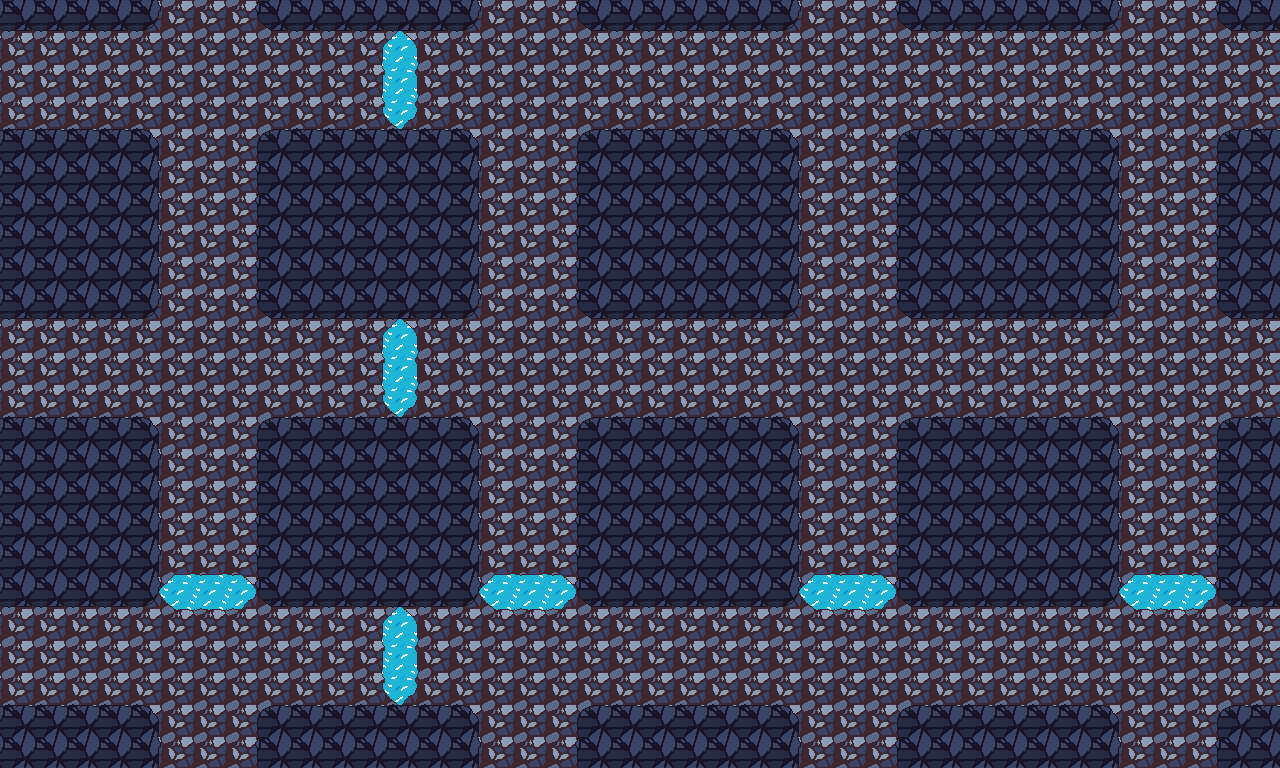
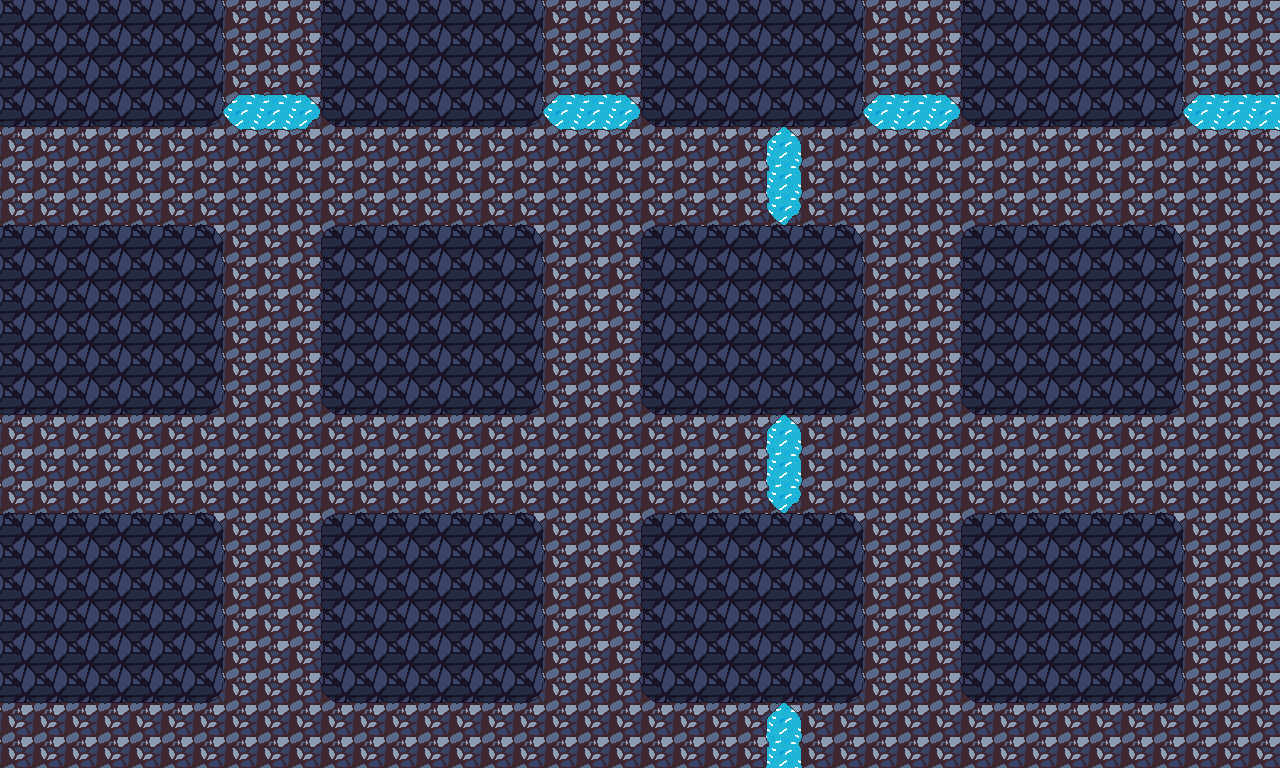
Tavolo tattico v2 (parte 1): rumore esportato, quartieri a centri, tratti e schede applicati dal generatore
Claude-Session: https://claude.ai/code/session_014ycMSkFAn8ixUvbSfrqtAR

diff --git a/tools/art/build_world.py b/tools/art/build_world.py
@@ -188,14 +188,74 @@ def galleria(mask, a, b, larg, rnd):
         mask[max(0, y - larg // 2):y + larg - larg // 2, max(0, x - larg // 2):x + larg - larg // 2] = True
 
 
+def q8(a):
+    """Rumore arrotondato a 256 livelli: e' lo stesso che il tavolo tattico legge dai PNG."""
+    return np.round(np.clip(a, 0, 1) * 255) / 255
+
+
+def rumori(seed):
+    return {"e": q8(0.65 * fbm(W, H, 28 * K, 5, seed) + 0.35 * fbm(W, H, 9 * K, 3, seed + 1)),
+            "m": q8(fbm(W, H, 24 * K, 4, seed + 2)), "d": q8(fbm(W, H, 6 * 1.5, 2, seed + 9)),
+            "n1": q8(fbm(W, H, 30 * K, 3, seed + 3)), "n2": q8(fbm(W, H, 12 * K, 2, seed + 4)),
+            "rq": q8(fbm(W, H, 18, 2, seed + 50))}
+
+
+def timbra(punti, r):
+    """Maschera dei tile toccati da un tratto: dischi di raggio r lungo la linea dei punti."""
+    mask = np.zeros((H, W), bool)
+    r = max(0, int(round(r)))
+    oy, ox = np.mgrid[-r:r + 1, -r:r + 1]
+    disco_l = ox * ox + oy * oy <= r * r + r
+    pts = [(float(p[0]), float(p[1])) for p in punti]
+    if len(pts) == 1:
+        pts = pts * 2
+    for (x0, y0), (x1, y1) in zip(pts, pts[1:]):
+        n = max(1, int(math.hypot(x1 - x0, y1 - y0) * 2))
+        for t in range(n + 1):
+            x, y = int(round(x0 + (x1 - x0) * t / n)), int(round(y0 + (y1 - y0) * t / n))
+            ya, yb, xa, xb = y - r, y + r + 1, x - r, x + r + 1
+            sy0, sx0 = max(0, -ya), max(0, -xa)
+            sy1, sx1 = disco_l.shape[0] - max(0, yb - H), disco_l.shape[1] - max(0, xb - W)
+            if sy1 <= sy0 or sx1 <= sx0:
+                continue
+            mask[max(0, ya):min(H, yb), max(0, xa):min(W, xb)] |= disco_l[sy0:sy1, sx0:sx1]
+    return mask
+
+
+ACQUE = ("water", "deep_water")
+TERRENO_TRATTO = {"strada": "lastricato_antico", "fiume": "water"}
+
+
+def applica_ritocchi(g, land, acqua, luoghi, villaggi):
+    """Schede (spiazzo attorno a un luogo) e tratti di superficie (pennello, strade, fiumi) dal tavolo tattico."""
+    for cat, dove in (("luoghi", luoghi), ("villaggi", villaggi)):
+        for nome, sc in LAYOUT.get("schede", {}).get(cat, {}).items():
+            if nome in dove and sc.get("terreno") in L and sc.get("grandezza"):
+                m_ = timbra([dove[nome]], sc["grandezza"])
+                g[m_] = L[sc["terreno"]]
+                land |= m_ & (sc["terreno"] not in ACQUE)
+    for tr in LAYOUT.get("tratti", []):
+        if tr.get("livello", "sopra") != "sopra" or tr.get("tipo") not in ("pennello", "strada", "fiume"):
+            continue
+        ter = tr.get("terreno") or TERRENO_TRATTO.get(tr["tipo"])
+        if ter not in L or not tr.get("punti"):
+            continue
+        m_ = timbra(tr["punti"], tr.get("r", 1))
+        g[m_] = L[ter]
+        if ter in ACQUE:
+            land &= ~m_
+            acqua |= m_
+        else:
+            land |= m_
+            acqua &= ~m_
+
+
 def genera(seed):
     rnd = random.Random(seed)
     rng = np.random.RandomState(seed)
     yy, xx = YY, XX
-    e = 0.65 * fbm(W, H, 28 * K, 5, seed) + 0.35 * fbm(W, H, 9 * K, 3, seed + 1)      # altezza (paesaggio)
-    m = fbm(W, H, 24 * K, 4, seed + 2)                                               # umidita'
-    d = fbm(W, H, 6 * 1.5, 2, seed + 9)                                              # macchie (piccole)
-    n1, n2 = fbm(W, H, 30 * K, 3, seed + 3), fbm(W, H, 12 * K, 2, seed + 4)
+    RU = rumori(seed)
+    e, m, d, n1, n2 = RU["e"], RU["m"], RU["d"], RU["n1"], RU["n2"]          # altezza, umidita', macchie, deformazioni
 
     # --- continente, zone (Voronoi deformato), golfo, isole ---
     costa = HC + (n1 - 0.5) * 34 * K + (n2 - 0.5) * 10 * K
@@ -302,7 +362,7 @@ def genera(seed):
             ys_f, xs_f = np.nonzero(interno_f)
             cxf, cyf = int(xs_f.mean()), int(ys_f.mean())
             for k_i in range(6):                     # 5-6 isolette nella nebbia
-                ang = k_i * 2 * math.pi / 6 + rnd.random() * 0.5
+                ang = k_i * 2 * math.pi / 6 + 0.3                                  # fisse: il tavolo le ricalcola
                 ix, iy = int(cxf + math.cos(ang) * 70), int(cyf + math.sin(ang) * 50)
                 g[interno_f & (np.hypot(xx - ix, yy - iy) < 14 + 8 * n2)] = L["erba_lilla"]
             g[interno_f & disco(cxf, cyf, 18)] = L["erba_lilla"]
@@ -332,20 +392,16 @@ def genera(seed):
     # --- Mirwada, grande citta' portuale a quartieri (risposte dell'utente 2026-10-14) ---
     py = int(np.nonzero(mw[:, px])[0].max()) - 1                       # riva nord del golfo (non la Frontiera!)
     porto, centro = (px, py), (px, py - int(RC * 0.6))
-    rq = fbm(W, H, 18, 2, seed + 50) - 0.5                                         # confini irregolari
+    rq = RU["rq"] - 0.5                                                           # confini irregolari
     dxc, dyc = xx - centro[0] + rq * RC * 0.5, yy - centro[1] + rq * RC * 0.4
     dc = np.hypot(dxc, dyc)
     base_citta = mw & (dmare > 1)
-    vecchia = base_citta & (dc < RC * 0.85)                                       # dentro le mura
-    fuori = base_citta & (dc >= RC * 0.9) & (dc < RC * 1.3)
-    Q = {"porto_commerciale": vecchia & (yy > py - RC * 0.32) & (np.abs(xx - px) < RC * 0.75),
-         "quartiere_operaio": vecchia & (dxc < -RC * 0.25),
-         "centro_antico": vecchia & (dyc < -RC * 0.35),
-         "bassifondi": fuori & (dxc < -RC * 0.3),
-         "citta_nuova": fuori & (dxc >= -RC * 0.3) & (yy < py - RC * 0.15)}
-    Q["quartiere_operaio"] &= ~Q["porto_commerciale"]
-    Q["centro_antico"] &= ~Q["quartiere_operaio"]
-    Q["centro_storico"] = vecchia & ~Q["porto_commerciale"] & ~Q["quartiere_operaio"] & ~Q["centro_antico"]
+    # quartieri: ogni tile della citta' va al centro di quartiere piu' vicino (pesato), come le zone
+    QS = LAYOUT["citta"]["quartieri"]
+    area_citta = base_citta & (dc < RC * 1.3)
+    dq = np.stack([np.hypot(dxc - v["x"] * RC, dyc - v["y"] * RC) * v.get("peso", 1.0) for v in QS.values()])
+    iq = dq.argmin(0)
+    Q = {n: area_citta & (iq == i) for i, n in enumerate(QS)}
     citta = np.zeros((H, W), bool)
     for z in Q.values():
         citta |= z
@@ -355,17 +411,18 @@ def genera(seed):
         blocco = ((xx % passo_x) < larg) & ((yy % passo_y) < alt)
         g[z] = np.where(blocco[z], edificio, strada)
 
-    isolati(Q["porto_commerciale"], 12, 9, 9, 6, L["ciottoli_scuri"])            # magazzini grandi
-    isolati(Q["quartiere_operaio"], 5, 4, 4, 3, L["ciottoli_scuri"])             # case strette e fabbriche
-    isolati(Q["centro_storico"], 8, 7, 6, 5, L["lastre_chiare"])                 # negozi, famiglie
-    isolati(Q["centro_antico"], 10, 9, 8, 7, L["lastre_chiare"])                 # palazzi
+    vuoto = np.zeros((H, W), bool)
+    isolati(Q.get("porto_commerciale", vuoto), 12, 9, 9, 6, L["ciottoli_scuri"])  # magazzini grandi
+    isolati(Q.get("quartiere_operaio", vuoto), 5, 4, 4, 3, L["ciottoli_scuri"])   # case strette e fabbriche
+    isolati(Q.get("centro_storico", vuoto), 8, 7, 6, 5, L["lastre_chiare"])       # negozi, famiglie
+    isolati(Q.get("centro_antico", vuoto), 10, 9, 8, 7, L["lastre_chiare"])       # palazzi
     # bassifondi: terra e fango, baracche sparse e case crollate
-    z = Q["bassifondi"]
+    z = Q.get("bassifondi", vuoto)
     g[z] = np.where(d[z] < 0.25, L["mud"], L["dirt"])
     g[z & ((xx % 5) < 3) & ((yy % 4) < 2) & (d > 0.3)] = L["stone"]
     g[z & ((xx % 5) < 3) & ((yy % 4) < 2) & (d > 0.75)] = L["lastre_rovine"]
     # citta' nuova: giardini, ville e viali larghi
-    z = Q["citta_nuova"]
+    z = Q.get("citta_nuova", vuoto)
     g[z] = L["grass"]
     g[z & ((xx % 14) < 5) & ((yy % 12) < 4)] = L["stone"]
     g[z & (((xx % 14) >= 11) | ((yy % 12) >= 9))] = L["lastre_chiare"]
@@ -478,7 +535,7 @@ def genera(seed):
         "approdo_frontiera": migliore(R["frontiera_porte"] & (dmare == 2), -yy),
     }
     for q_nome in ("quartiere_operaio", "bassifondi", "citta_nuova", "centro_antico"):
-        ys_q, xs_q = np.nonzero(Q[q_nome])
+        ys_q, xs_q = np.nonzero(Q.get(q_nome, vuoto))
         if len(xs_q):
             luoghi[q_nome] = (int(xs_q.mean()), int(ys_q.mean()))
     for rid, cx, cy, r, prof in ISOLE[1:]:
@@ -530,8 +587,11 @@ def genera(seed):
         r = 4 if nome.startswith(("villaggio", "accampamento")) else 1
         g[disco(x, y, r) & land & ~acqua] = L["path"] if r > 1 else L["dirt"]
 
+    applica_spostati(luoghi, villaggi, None)
+    applica_ritocchi(g, land, acqua, luoghi, villaggi)
     w = World(W, H, seed, g, reg, e, REGIONI, water_mask=acqua)
     w.citta = citta                                   # per misurare la citta' e disegnarne l'anteprima
+    w.rumori = RU                                     # esportati per il tavolo tattico
     w.roads = [[list(map(int, q)) for q in p] for p in strade]
     w.objects = ponti
 
@@ -569,8 +629,10 @@ def genera(seed):
 
 def applica_spostati(luoghi, villaggi, sotto):
     """Le decisioni dell'utente (tavolo tattico) vincono sui suggerimenti: [x, y] sposta o aggiunge, null cancella."""
-    for chiave, dove in (("luoghi", luoghi), ("villaggi", villaggi), ("ingressi", sotto["ingressi"]),
-                         ("boss", sotto["boss"])):
+    coppie = [("luoghi", luoghi), ("villaggi", villaggi)]
+    if sotto is not None:
+        coppie += [("ingressi", sotto["ingressi"]), ("boss", sotto["boss"])]
+    for chiave, dove in coppie:
         for nome, pos in LAYOUT["spostati"].get(chiave, {}).items():
             if pos is None:
                 dove.pop(nome, None)
@@ -661,6 +723,11 @@ def genera_sottosuolo(seed, R, land, acqua, centro, rovine_boss, porto, rnd, rng
         tunnel = np.zeros((H, W), bool)
         galleria(tunnel, a, b, 2, rnd)
         s[tunnel & (s < 0)] = L["pietrisco"]
+    # gallerie dal tavolo tattico: 'galleria' scava (pavimento), 'riempi' chiude (roccia)
+    for tr in LAYOUT.get("tratti", []):
+        if tr.get("tipo") in ("galleria", "riempi") and tr.get("punti"):
+            m_ = timbra(tr["punti"], tr.get("r", 1))
+            s[m_] = L.get(tr.get("terreno") or "pietrisco", L["pietrisco"]) if tr["tipo"] == "galleria" else -1
     # ingressi (stesso punto sopra e sotto) e boss di zona
     sopra_ok = land & ~acqua & ~np.isin(g_sopra, [L["deep_water"], L["water"], L["stone"]])
     interno = (xx >= 20) & (xx < W - 20) & (yy >= 20) & (yy < H - 20)
@@ -799,12 +866,16 @@ def esporta_tavolo(w, luoghi, villaggi, sotto):
     os.makedirs(TAVOLO, exist_ok=True)
     anteprima(w, luoghi, villaggi, segni=False).save(os.path.join(TAVOLO, "superficie.png"))
     anteprima_sotto(w, sotto, segni=False).save(os.path.join(TAVOLO, "sottosuolo.png"))
+    for nome, a in w.rumori.items():                  # stesse mappe di rumore: la pagina rifa' gli stessi calcoli
+        Image.fromarray(np.round(a * 255).astype(np.uint8), "L").save(os.path.join(TAVOLO, f"rumore_{nome}.png"))
     righe, tot, sotto_tot = misure(w, sotto)
-    punti = {"W": W, "H": H, "HC": HC, "seed": w.seed, "schermata": SCHERMATA,
+    punti = {"W": W, "H": H, "HC": HC, "K": K, "KC": KC, "seed": w.seed, "schermata": SCHERMATA,
+             "terreni": list(ORDER), "colori": colori_terreni().tolist(), "regioni": REGIONI,
              "luoghi": luoghi, "villaggi": villaggi, "ingressi": sotto["ingressi"], "boss": sotto["boss"],
              "misure": {n: round(v, 1) for n, v in righe}, "superficie": round(tot), "sottosuolo": round(sotto_tot),
              "citta": round(int(w.citta.sum()) / SCHERMATA),
-             "layout": {k: LAYOUT[k] for k in ("terra", "mezzo", "isole", "citta", "spostati", "note")}}
+             "layout": {k: LAYOUT.get(k, {} if k != "tratti" else []) for k in
+                        ("terra", "mezzo", "isole", "citta", "spostati", "note", "schede", "tratti")}}
     with open(os.path.join(TAVOLO, "punti.json"), "w", encoding="utf-8") as f:
         json.dump(punti, f, ensure_ascii=False, separators=(",", ":"))
 
